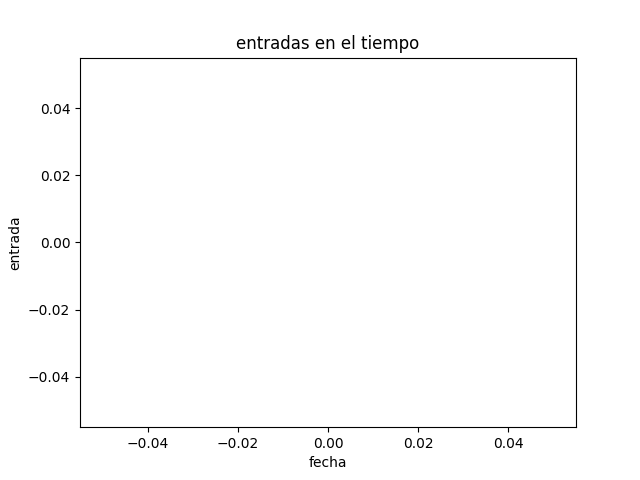
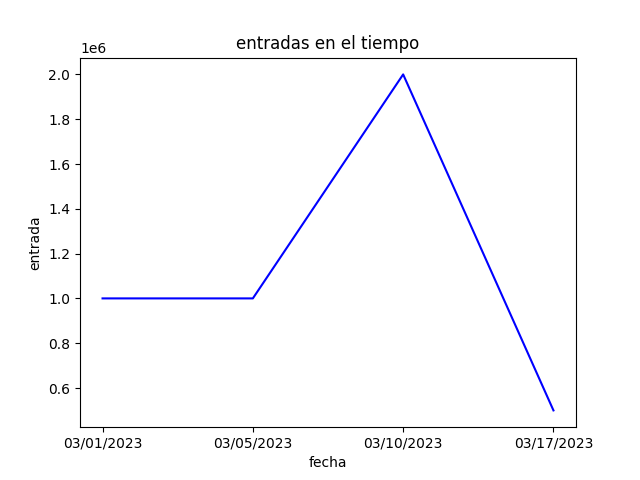
separación de gráfico de tortas, cambio de imagen en sugerencias

diff --git a/SMARTCASHPROJECT/wallet/templates/registration/suggestions.html b/SMARTCASHPROJECT/wallet/templates/registration/suggestions.html
@@ -63,7 +63,7 @@
 
         <div class="col">
             <div class="card h-100">
-                <img src="https://gbm.com/academy/wp-content/uploads/sites/5/2021/08/wealth-management-de-gbm.png"
+                <img src="https://cdn.forbes.com.mx/2022/03/GBM.Wealth.Managment-scaled.jpg"
                      class="card-img-top" alt="...">
                 <div class="card-body">
                     <a href="https://gbm.com/plus/wealth-management/" class="card-title" target="blank">
@@ -75,7 +75,7 @@
         </div>
 
         <div class="col">
-            <div class="card">
+            <div class="card h-100">
                 <img src="https://st2.depositphotos.com/1056393/6746/i/600/depositphotos_67469153-stock-photo-woman-window-shopping.jpg"
                      class="card-img-top" alt="...">
                 <div class="card-body">
@@ -89,8 +89,8 @@
 
 
         <div class="col">
-            <div class="card">
-                <img src="https://familybudgetexpert.com/wp-content/uploads/2020/12/pexels-karolina-grabowska-5902919-scaled.jpg"
+            <div class="card h-100">
+                <img src="https://media.istockphoto.com/id/1065733544/photo/accounting-spread-sheets.jpg?s=612x612&w=0&k=20&c=zNHdJy0MZSrlVHzhMAgoBK6ulK6QCAL917dBxos_9C8="
                      class="card-img-top" alt="...">
                 <div class="card-body">
                     {% if balance >= 0 %}

diff --git a/SMARTCASHPROJECT/wallet/templates/registration/statistics.html b/SMARTCASHPROJECT/wallet/templates/registration/statistics.html
@@ -51,7 +51,10 @@
 	<img src="{% static "images/line_chart_salida.png" %}">
 	<br>
 	<br>
-	<img src="{% static "images/pie_chart.png" %}">
+	<img src="{% static "images/pie_chart_entrada.png" %}">
+	<br>
+	<br>
+	<img src="{% static "images/pie_chart_salida.png" %}">
 </div>
 
 </body>

diff --git a/SMARTCASHPROJECT/wallet/charts.py b/SMARTCASHPROJECT/wallet/charts.py
@@ -20,6 +20,22 @@ def pie_chart_movements(movements):
     plt.savefig('static/images/pie_chart.png')
 
 
+def pie_chart_movements_direction(movements, direction):
+    categories = {}
+    for movement in movements:
+        if movement[-1] in categories:
+            categories[movement[-1]] += movement[4]
+        else:
+            categories[movement[-1]] = movement[4]
+    values, labels = categories.values(), categories.keys()
+    plt.figure()
+    plt.pie(values, labels=labels, autopct='%1.0f%%')
+    plt.title(f'{direction}s en categorías')
+    plt.savefig(f'static/images/pie_chart_{direction}.png')
+
+
+
+
 def line_chart_date(movements):
     dates = {}
     for movement in movements:
@@ -45,7 +61,7 @@ def line_chart_date_direction(movements, direction):
             dates[movement[5]] = movement[4]
     figure = plt.figure()
     values, labels = dates.values(), [x.strftime("%m/%d/%Y") for x in dates.keys()]
-    plt.plot(labels, values, figure=figure)
+    plt.plot(labels, values, figure=figure, color='blue' if direction == 'entrada' else 'red')
     plt.title(f'{direction}s en el tiempo')
     plt.xlabel('fecha', figure=figure)
     plt.ylabel(f'{direction}', figure=figure)

diff --git a/SMARTCASHPROJECT/wallet/views.py b/SMARTCASHPROJECT/wallet/views.py
@@ -75,8 +75,8 @@ def categories(request):
 
 def statistics(request):
     connection.current_user = request.user
-    moves = connection.search_user_movements()
-    charts.pie_chart_movements(moves)
+    charts.pie_chart_movements_direction(connection.search_user_movement_direction('entrada'), 'entrada')
+    charts.pie_chart_movements_direction(connection.search_user_movement_direction('salida'), 'salida')
     charts.line_chart_date_direction(connection.search_user_movement_direction('entrada'), 'entrada')
     charts.line_chart_date_direction(connection.search_user_movement_direction('salida'), 'salida')
     return render(request, 'registration/statistics.html')
